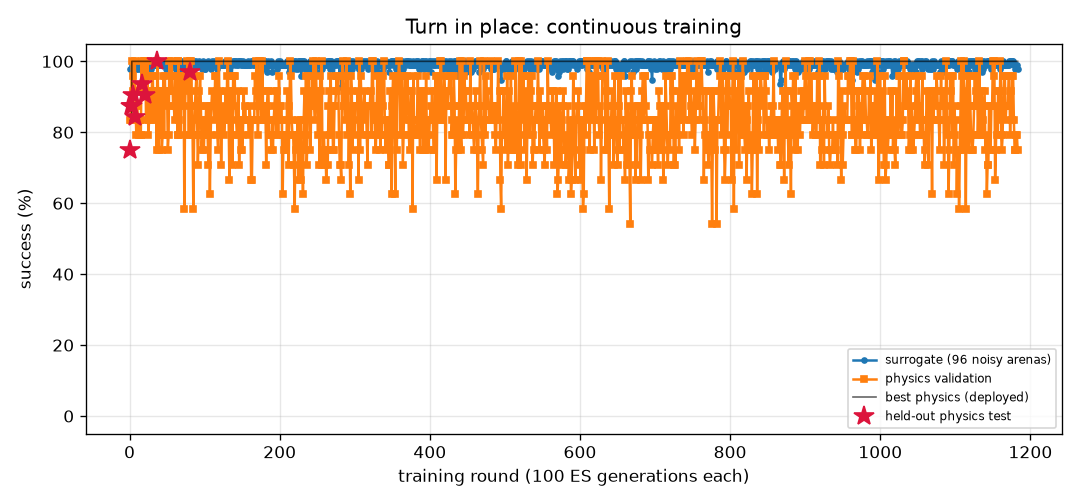
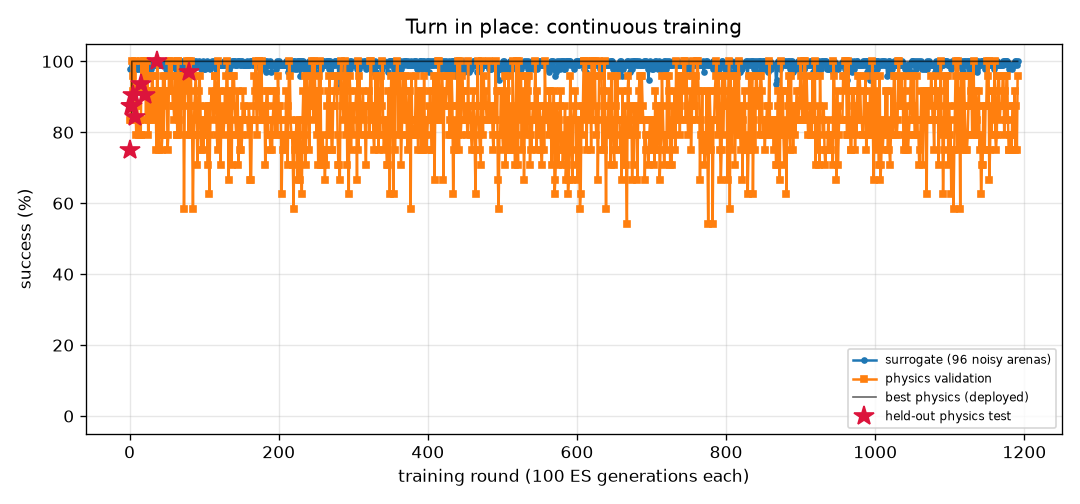
FlyLab: continuous training progress
- walk_forward: optimal, physics val 100% of 24, round 444
- turn: optimal, physics val 100% of 24, round 1191
- goto: optimal, physics val 100% of 24, round 344
- odor_seek: optimal, physics val 100% of 24, round 276
- odor_avoid: optimal, physics val 100% of 24, round 1014
- light_seek: optimal, physics val 100% of 24, round 546
- light_avoid: optimal, physics val 100% of 24, round 731

diff --git a/projects/09_flylab/training/turn/REPORT.md b/projects/09_flylab/training/turn/REPORT.md
@@ -1,14 +1,14 @@
 # Turn in place (`turn`) — training report
 
-*Auto-generated by `train_brains.py`, last updated 2026-11-19T22:43:02.*
+*Auto-generated by `train_brains.py`, last updated 2026-11-20T10:20:35.*
 
 ![curve](curve.png)
 
 | | |
 |---|---|
-| rounds | 1183 |
-| ES generations | 118300 |
-| physics runs | 28638 |
+| rounds | 1191 |
+| ES generations | 119100 |
+| physics runs | 28830 |
 | status | **optimal** |
 | best brain | round 80: physics validation **100%** on 24 arenas, surrogate 100% |
 | held-out physics test | **97%** on 32 unseen arenas (95% CI 84%-99%) (errors: [1.6, 3.3, 6.3, 3.7, 1.1, 0.4, 2.4, 2.9, 0.1, 2.6, 0.5, 2.7, 1.5, 3.1, 4.5, 0.2, 0.5, 1.1, 2.0, 4.4, 2.8, 3.2, 0.3, 2.2, 0.5, 3.0, 0.3, 5.4, 0.4, 1.0, 4.7, 10.7]) |
@@ -17,14 +17,6 @@ Physics error per arena: deg from target heading (< 20 = success).
 
 | round | level | gens | sigma | surrogate | physics val | val errors | test | note |
 |---:|---:|---:|---:|---:|---:|---|---:|---|
-| 1144 | 3 | 114400 | 0.024 | 100% | 71% | [8.7, 9.5, 3.9, 1.0, 2.8, 0.7, 2.9, 1.6, 3.3, 0.4, 2.8, 1.3, 0.1, 5.1, 2.5, 2.3, 1.5, 0.0, 0.9, 1.2, 4.8, 2.1, 3.0, 0.8] |  | restart from best |
-| 1145 | 3 | 114500 | 0.024 | 99% | 88% | [5.4, 8.7, 1.6, 3.0, 4.7, 0.4, 3.6, 5.0, 2.8, 0.5, 2.1, 1.7, 4.0, 0.4, 2.6, 0.5, 1.3, 0.0, 0.5, 1.6, 5.1, 0.5, 4.2, 2.4] |  |  |
-| 1146 | 3 | 114600 | 0.025 | 100% | 75% | [4.8, 5.6, 4.9, 1.9, 1.6, 1.8, 6.6, 1.6, 6.4, 13.9, 4.1, 0.1, 1.8, 1.3, 3.4, 0.5, 0.2, 2.6, 0.4, 2.5, 4.0, 0.6, 5.2, 6.3] |  |  |
-| 1147 | 3 | 114700 | 0.024 | 98% | 75% | [3.2, 5.5, 9.9, 1.0, 15.2, 2.4, 9.2, 9.3, 7.2, 3.0, 5.5, 3.5, 1.7, 0.2, 4.3, 4.1, 2.7, 3.5, 4.6, 5.2, 4.0, 3.5, 8.1, 6.3] |  |  |
-| 1148 | 3 | 114800 | 0.025 | 100% | 88% | [5.9, 4.7, 3.6, 1.0, 3.5, 3.7, 8.4, 4.2, 8.7, 3.1, 6.0, 0.7, 1.6, 0.6, 3.1, 4.0, 1.1, 4.4, 6.0, 16.1, 2.9, 4.0, 8.1, 8.5] |  | restart from best |
-| 1149 | 3 | 114900 | 0.024 | 100% | 88% | [8.0, 6.6, 6.4, 3.1, 10.0, 1.3, 3.5, 0.3, 4.3, 1.1, 2.8, 1.3, 2.4, 4.5, 3.7, 1.1, 1.3, 0.4, 1.4, 1.0, 6.9, 0.0, 4.2, 2.1] |  |  |
-| 1150 | 3 | 115000 | 0.024 | 99% | 100% | [3.6, 0.7, 6.2, 0.6, 1.4, 3.7, 5.5, 2.3, 7.4, 1.2, 3.6, 1.8, 0.9, 0.8, 4.2, 4.8, 2.0, 2.4, 3.3, 14.4, 3.6, 1.6, 6.3, 3.6] |  |  |
-| 1151 | 3 | 115100 | 0.025 | 99% | 96% | [4.9, 7.3, 2.5, 0.8, 1.5, 1.4, 4.7, 5.7, 4.2, 0.2, 4.1, 0.8, 3.7, 2.9, 3.8, 0.1, 1.0, 0.6, 0.7, 1.9, 4.6, 0.6, 3.3, 4.6] |  |  |
 | 1152 | 3 | 115200 | 0.025 | 100% | 100% | [5.3, 8.8, 7.1, 1.6, 0.8, 3.2, 1.5, 0.4, 1.3, 0.7, 1.2, 1.8, 1.3, 4.7, 2.3, 17.4, 1.9, 1.0, 0.3, 1.2, 6.1, 1.1, 2.3, 2.5] |  | restart from best |
 | 1153 | 3 | 115300 | 0.024 | 100% | 67% | [4.1, 2.2, 6.3, 0.0, 0.6, 0.9, 5.4, 10.2, 6.4, 14.3, 5.2, 1.1, 0.2, 1.4, 4.9, 1.6, 0.5, 2.6, 2.4, 2.5, 4.2, 2.9, 7.0, 6.5] |  |  |
 | 1154 | 3 | 115400 | 0.024 | 99% | 75% | [7.2, 11.2, 3.5, 2.2, 4.6, 7.2, 2.0, 0.1, 3.6, 0.1, 2.9, 2.6, 1.5, 4.6, 5.2, 0.4, 2.1, 0.3, 0.6, 1.2, 6.7, 0.1, 4.1, 2.4] |  |  |
@@ -57,3 +49,11 @@ Physics error per arena: deg from target heading (< 20 = success).
 | 1181 | 3 | 118100 | 0.024 | 99% | 79% | [4.4, 2.1, 1.9, 1.0, 0.2, 0.7, 6.3, 5.9, 7.9, 1.0, 5.2, 1.7, 1.0, 0.1, 4.3, 1.3, 1.7, 2.5, 10.7, 3.1, 1.1, 2.8, 7.1, 3.6] |  |  |
 | 1182 | 3 | 118200 | 0.025 | 99% | 79% | [12.5, 9.8, 12.1, 5.1, 17.0, 5.5, 9.9, 12.9, 10.3, 3.6, 6.0, 7.0, 2.7, 3.9, 7.0, 4.1, 7.0, 8.1, 6.3, 16.9, 1.6, 2.6, 9.4, 10.2] |  |  |
 | 1183 | 3 | 118300 | 0.025 | 98% | 75% | [5.1, 10.3, 0.3, 152.4, 4.0, 0.6, 6.0, 0.6, 2.8, 0.9, 3.8, 1.2, 0.4, 3.4, 3.3, 1.7, 1.3, 1.4, 1.7, 0.3, 6.8, 2.4, 4.7, 5.1] |  |  |
+| 1184 | 3 | 118400 | 0.025 | 99% | 88% | [7.9, 3.8, 1.3, 0.4, 1.6, 1.6, 5.4, 1.5, 5.6, 1.2, 4.7, 0.1, 3.3, 2.6, 3.5, 0.7, 0.2, 1.2, 0.5, 0.4, 3.2, 0.3, 5.6, 4.9] |  | restart from best |
+| 1185 | 3 | 118500 | 0.024 | 99% | 88% | [5.0, 8.5, 6.8, 3.1, 1.9, 0.2, 4.1, 1.7, 3.5, 0.0, 3.9, 1.8, 0.0, 1.2, 3.9, 1.3, 1.6, 0.0, 0.7, 0.3, 5.6, 0.7, 5.0, 0.5] |  |  |
+| 1186 | 3 | 118600 | 0.025 | 99% | 79% | [9.0, 9.5, 3.2, 0.4, 2.4, 1.9, 2.6, 0.8, 2.9, 0.3, 2.5, 1.9, 0.5, 4.4, 2.4, 0.2, 1.8, 0.2, 0.6, 2.4, 9.1, 0.1, 2.0, 5.4] |  |  |
+| 1187 | 3 | 118700 | 0.025 | 100% | 92% | [5.5, 8.0, 1.0, 3.0, 1.8, 3.7, 3.7, 4.1, 4.8, 0.6, 3.1, 1.4, 1.1, 4.1, 2.2, 0.7, 1.1, 0.3, 0.7, 0.9, 4.2, 4.0, 4.6, 0.8] |  |  |
+| 1188 | 3 | 118800 | 0.024 | 99% | 75% | [6.9, 8.7, 2.1, 1.1, 15.1, 3.0, 7.2, 2.4, 3.0, 0.3, 4.5, 1.0, 1.2, 0.5, 5.2, 1.2, 1.7, 2.1, 0.7, 0.0, 3.6, 1.4, 5.6, 9.5] |  | restart from best |
+| 1189 | 3 | 118900 | 0.024 | 100% | 88% | [1.5, 4.7, 7.3, 2.1, 4.6, 2.2, 6.7, 7.9, 4.6, 1.3, 5.2, 2.2, 1.3, 0.3, 5.9, 3.7, 0.7, 2.7, 3.5, 3.4, 5.7, 3.0, 5.0, 7.7] |  |  |
+| 1190 | 3 | 119000 | 0.024 | 99% | 75% | [0.9, 3.8, 8.8, 2.2, 0.6, 2.6, 7.9, 9.4, 7.1, 1.8, 6.1, 2.8, 3.2, 1.3, 5.9, 4.0, 0.3, 3.2, 4.1, 4.4, 2.5, 3.0, 9.1, 5.1] |  |  |
+| 1191 | 3 | 119100 | 0.025 | 100% | 96% | [0.4, 1.4, 2.6, 0.3, 1.4, 2.9, 3.9, 5.4, 6.9, 0.9, 3.9, 1.6, 0.4, 1.9, 2.9, 1.9, 1.0, 0.8, 1.6, 1.4, 3.1, 2.0, 5.3, 5.5] |  |  |

diff --git a/README.md b/README.md
@@ -90,17 +90,17 @@ automatically as training improves it.*
 </p>
 
 <!-- BRAINS:START -->
-**Status on 2026-11-19** (rewritten daily by `daily.py`; the [dashboard](https://rohitcraftsyt.github.io/FruitFlyBrain/projects/09_flylab/dashboard/) is live):
+**Status on 2026-11-20** (rewritten daily by `daily.py`; the [dashboard](https://rohitcraftsyt.github.io/FruitFlyBrain/projects/09_flylab/dashboard/) is live):
 
 | Skill brain | Rounds | Physics validation | **Held-out physics test** (95% CI) | Fresh-arena check | Status |
 |---|---:|---:|---:|---:|---|
-| Walk forward | 434 | 100% of 24 | **100% of 32** (89%–100%) | 100% of 16 (2026-11-19) | ✅ optimal |
-| Turn in place | 1151 | 100% of 24 | **97% of 32** (84%–99%) | 100% of 16 (2026-11-19) | ✅ optimal |
-| Go to a location | 332 | 100% of 24 | **100% of 32** (89%–100%) | 100% of 16 (2026-11-19) | ✅ optimal |
-| Find food by smell | 269 | 100% of 24 | **100% of 32** (89%–100%) | 100% of 16 (2026-11-19) | ✅ optimal |
-| Escape a bad smell | 994 | 100% of 24 | **97% of 32** (84%–99%) | 94% of 16 (2026-11-19) | ✅ optimal |
-| Walk toward light | 535 | 100% of 24 | **100% of 32** (89%–100%) | 100% of 16 (2026-11-19) | ✅ optimal |
-| Hide from light | 711 | 100% of 24 | **100% of 32** (89%–100%) | 100% of 16 (2026-11-19) | ✅ optimal |
+| Walk forward | 444 | 100% of 24 | **100% of 32** (89%–100%) | 100% of 16 (2026-11-20) | ✅ optimal |
+| Turn in place | 1190 | 100% of 24 | **97% of 32** (84%–99%) | 94% of 16 (2026-11-20) | ✅ optimal |
+| Go to a location | 344 | 100% of 24 | **100% of 32** (89%–100%) | 100% of 16 (2026-11-20) | ✅ optimal |
+| Find food by smell | 276 | 100% of 24 | **100% of 32** (89%–100%) | 100% of 16 (2026-11-20) | ✅ optimal |
+| Escape a bad smell | 1014 | 100% of 24 | **97% of 32** (84%–99%) | 100% of 16 (2026-11-20) | ✅ optimal |
+| Walk toward light | 546 | 100% of 24 | **100% of 32** (89%–100%) | 100% of 16 (2026-11-20) | ✅ optimal |
+| Hide from light | 731 | 100% of 24 | **100% of 32** (89%–100%) | 100% of 16 (2026-11-20) | ✅ optimal |
 <!-- BRAINS:END -->
 
 **How it got here** (full [engineering log](projects/09_flylab/README.md#making-skills-survive-the-jump-to-physics-engineering-log)):

diff --git a/projects/09_flylab/training/CHECKS.md b/projects/09_flylab/training/CHECKS.md
@@ -1,15 +1,15 @@
 # Daily fresh-arena checks
 
-*Auto-generated by `recheck.py`, last updated 2026-11-19T01:17:35.*
+*Auto-generated by `recheck.py`, last updated 2026-11-20T10:18:53.*
 
 Every day each optimal brain is re-run in MuJoCo on a new set of random arenas it has never seen. The fixed held-out test decides 'optimal' (>= 90%); these checks watch for brains that only look good on that fixed set. Anything under 80% is flagged.
 
 | skill | last check | brain round | fresh arenas | success (95% CI) | last 7 checks |
 |---|---|---:|---:|---|---|
-| Walk forward | 2026-11-19 | 116 | 16 | 100% (81%-100%) | 100% 100% 100% 100% 100% 100% 100% |
-| Turn in place | 2026-11-19 | 80 | 16 | 100% (81%-100%) | 100% 100% 100% 100% 100% 88% 100% |
-| Go to a location | 2026-11-19 | 176 | 16 | 100% (81%-100%) | 100% 100% 100% 100% 100% 100% 100% |
-| Find food by smell | 2026-11-19 | 240 | 16 | 100% (81%-100%) | 100% 100% 100% 100% 100% 100% 100% |
-| Escape a bad smell | 2026-11-19 | 373 | 16 | 94% (72%-99%) | 100% 100% 94% 100% 100% 100% 94% |
-| Walk toward light | 2026-11-19 | 375 | 16 | 100% (81%-100%) | 100% 100% 100% 100% 100% 100% 100% |
-| Hide from light | 2026-11-19 | 159 | 16 | 100% (81%-100%) | 100% 100% 100% 100% 100% 100% 100% |
+| Walk forward | 2026-11-20 | 437 | 16 | 100% (81%-100%) | 100% 100% 100% 100% 100% 100% 100% |
+| Turn in place | 2026-11-20 | 80 | 16 | 94% (72%-99%) | 100% 100% 100% 88% 100% 94% 94% |
+| Go to a location | 2026-11-20 | 176 | 16 | 100% (81%-100%) | 100% 100% 100% 100% 100% 100% 100% |
+| Find food by smell | 2026-11-20 | 240 | 16 | 100% (81%-100%) | 100% 100% 100% 100% 100% 100% 100% |
+| Escape a bad smell | 2026-11-20 | 373 | 16 | 100% (81%-100%) | 94% 100% 100% 100% 94% 100% 100% |
+| Walk toward light | 2026-11-20 | 375 | 16 | 100% (81%-100%) | 100% 100% 100% 100% 100% 100% 100% |
+| Hide from light | 2026-11-20 | 159 | 16 | 100% (81%-100%) | 100% 100% 100% 100% 100% 100% 100% |

diff --git a/projects/09_flylab/training/TRAINING.md b/projects/09_flylab/training/TRAINING.md
@@ -1,13 +1,13 @@
 # FlyLab brains — continuous training log
 
-*Auto-generated by `train_brains.py`, last updated 2026-11-20T00:41:36.*
+*Auto-generated by `train_brains.py`, last updated 2026-11-20T10:20:37.*
 
 Every skill has its own brain and its own training process: surrogate ES rounds, physics validation in MuJoCo, keep-the-best selection, and a held-out physics test that is never used for selection. See each skill's report for its full round-by-round history. Mastery is progressive: passing a level (100% physics validation, >=95% surrogate) doubles the validation and test arena sets; a brain is **optimal** once it holds up at level 3 (>=95% of 24 validation arenas) AND scores >=90% on the 32 held-out test arenas. Test columns show 95% Wilson confidence intervals.
 
 | skill | rounds | ES generations | physics runs | surrogate | physics val | **physics test** | status |
 |---|---:|---:|---:|---:|---:|---:|---|
 | [Walk forward](walk_forward/REPORT.md) | 444 | 44400 | 10702 | 99% | 100% of 24 | 100% of 32 (CI 89-100%) | **optimal** |
-| [Turn in place](turn/REPORT.md) | 1183 | 118300 | 28638 | 100% | 100% of 24 | 97% of 32 (CI 84-99%) | **optimal** |
+| [Turn in place](turn/REPORT.md) | 1191 | 119100 | 28830 | 100% | 100% of 24 | 97% of 32 (CI 84-99%) | **optimal** |
 | [Go to a location](goto/REPORT.md) | 344 | 34400 | 8206 | 100% | 100% of 24 | 100% of 32 (CI 89-100%) | **optimal** |
 | [Find food by smell](odor_seek/REPORT.md) | 276 | 27600 | 6118 | 100% | 100% of 24 | 100% of 32 (CI 89-100%) | **optimal** |
 | [Escape a bad smell](odor_avoid/REPORT.md) | 1014 | 101400 | 21642 | 97% | 100% of 24 | 97% of 32 (CI 84-99%) | **optimal** |
